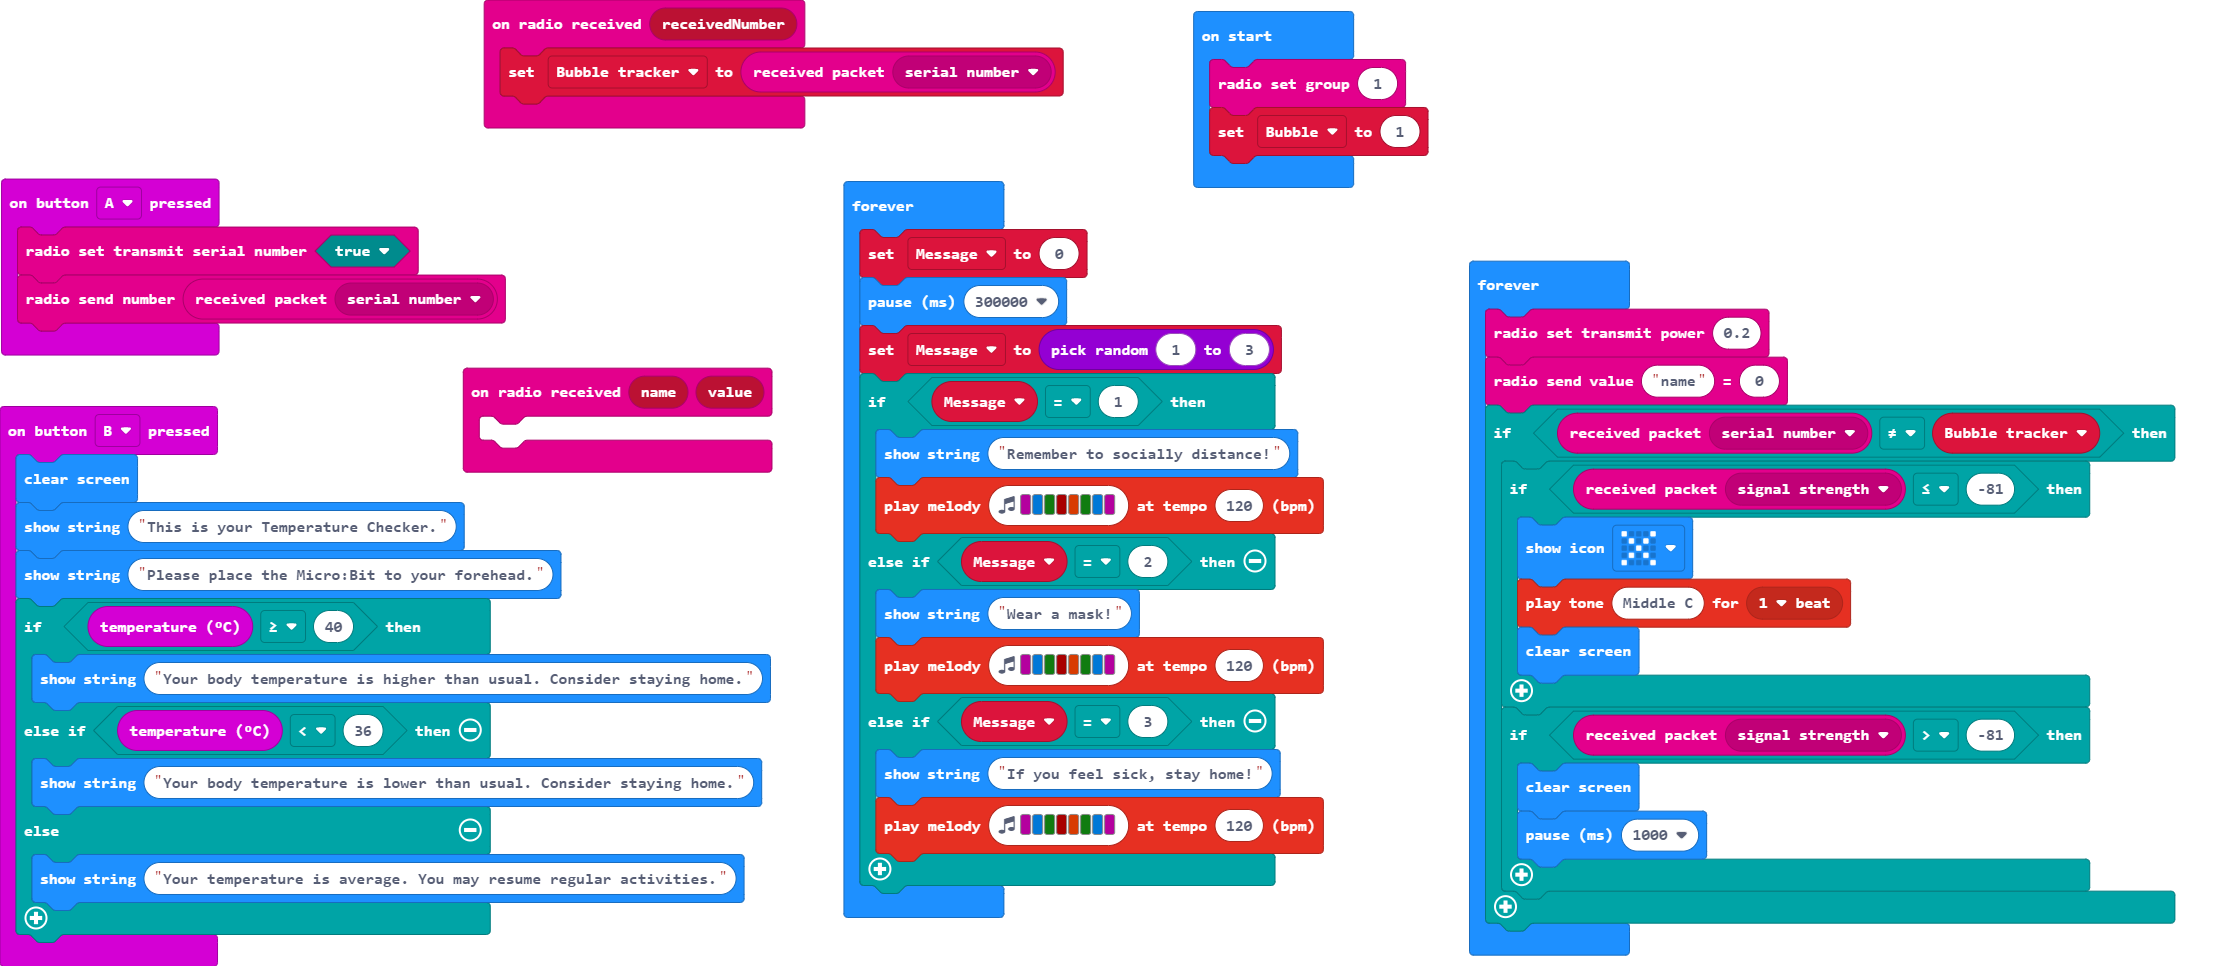
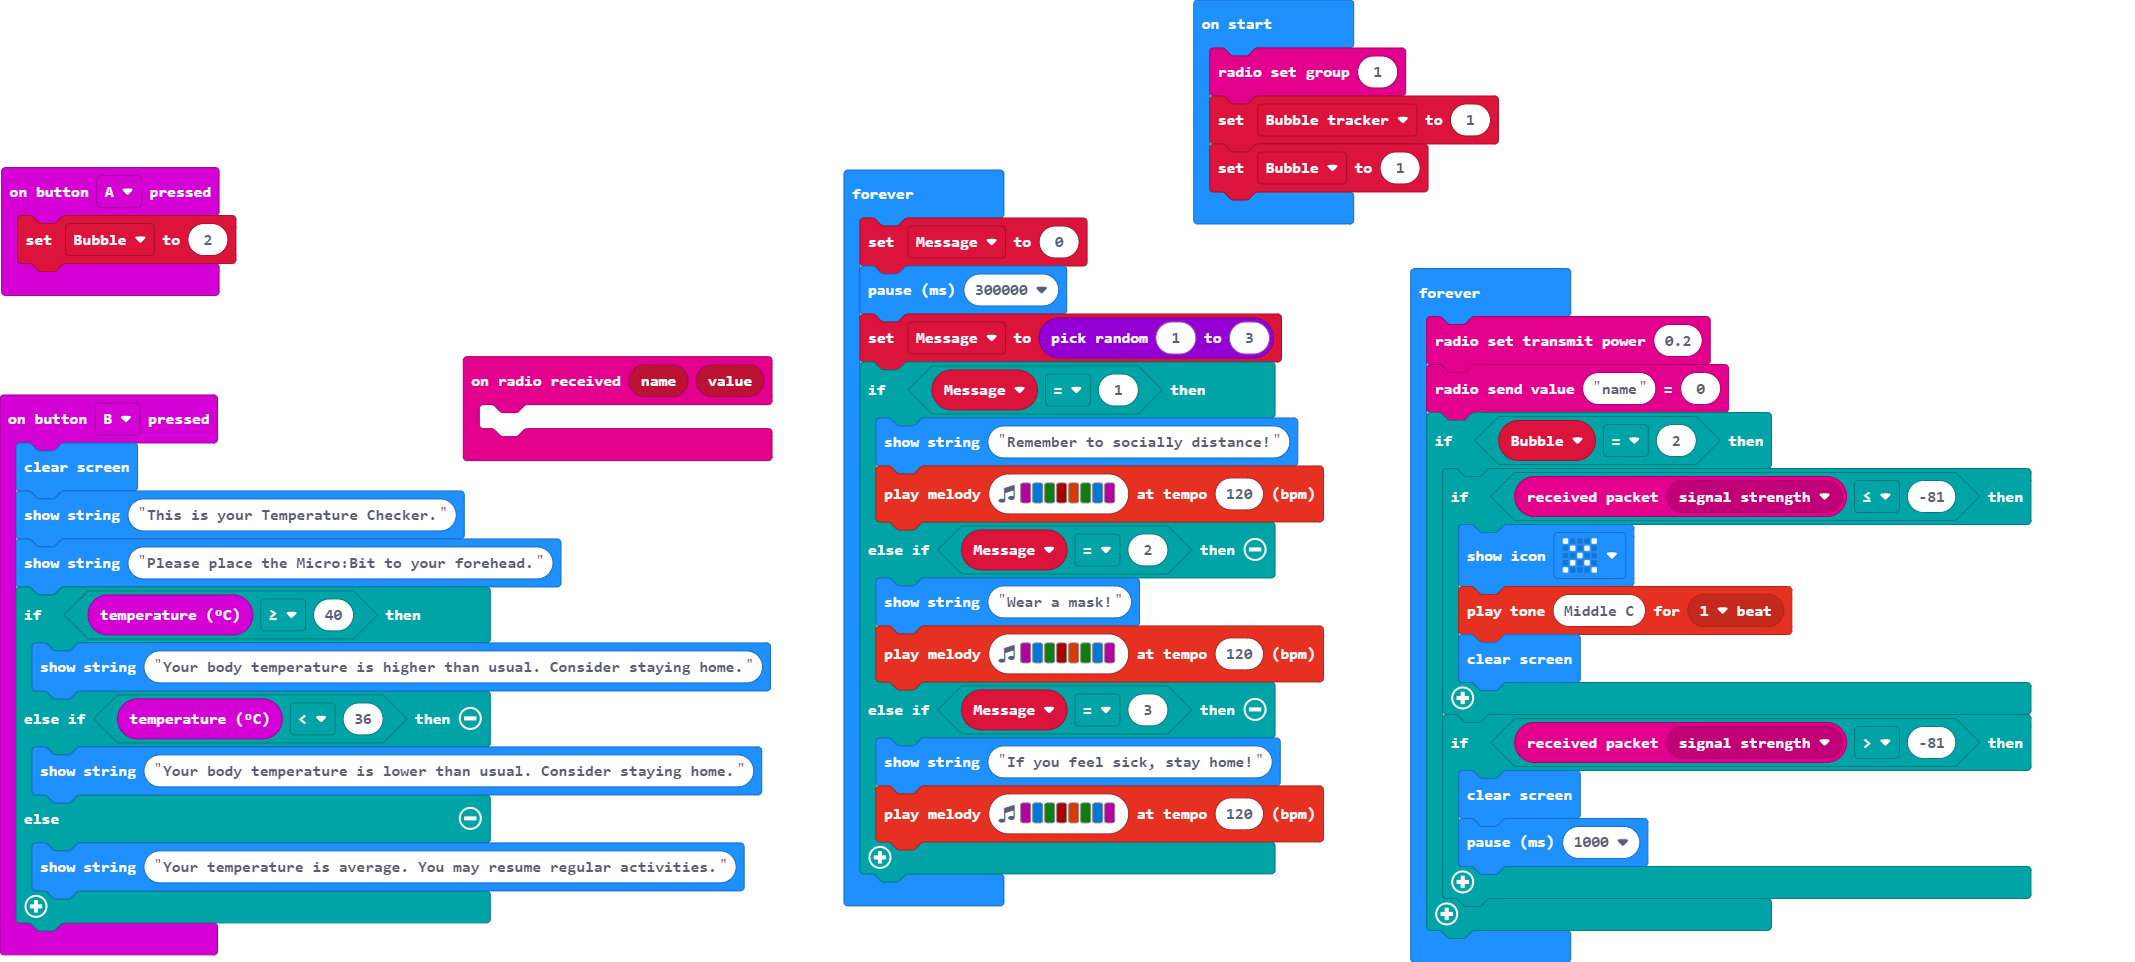
Update main.blocks, main.ts

diff --git a/main.ts b/main.ts
@@ -1,9 +1,5 @@
-radio.onReceivedNumber(function (receivedNumber) {
-    Bubble_tracker = radio.receivedPacket(RadioPacketProperty.SerialNumber)
-})
 input.onButtonPressed(Button.A, function () {
-    radio.setTransmitSerialNumber(true)
-    radio.sendNumber(radio.receivedPacket(RadioPacketProperty.SerialNumber))
+    Bubble = 2
 })
 input.onButtonPressed(Button.B, function () {
     basic.clearScreen()
@@ -21,9 +17,10 @@ radio.onReceivedValue(function (name, value) {
 	
 })
 let Message = 0
-let Bubble_tracker = 0
+let Bubble = 0
 radio.setGroup(1)
-let Bubble = 1
+let Bubble_tracker = 1
+Bubble = 1
 basic.forever(function () {
     Message = 0
     basic.pause(300000)
@@ -42,7 +39,7 @@ basic.forever(function () {
 basic.forever(function () {
     radio.setTransmitPower(0.2)
     radio.sendValue("name", 0)
-    if (radio.receivedPacket(RadioPacketProperty.SerialNumber) != Bubble_tracker) {
+    if (Bubble == 2) {
         if (radio.receivedPacket(RadioPacketProperty.SignalStrength) <= -81) {
             basic.showIcon(IconNames.No)
             music.playTone(262, music.beat(BeatFraction.Whole))
